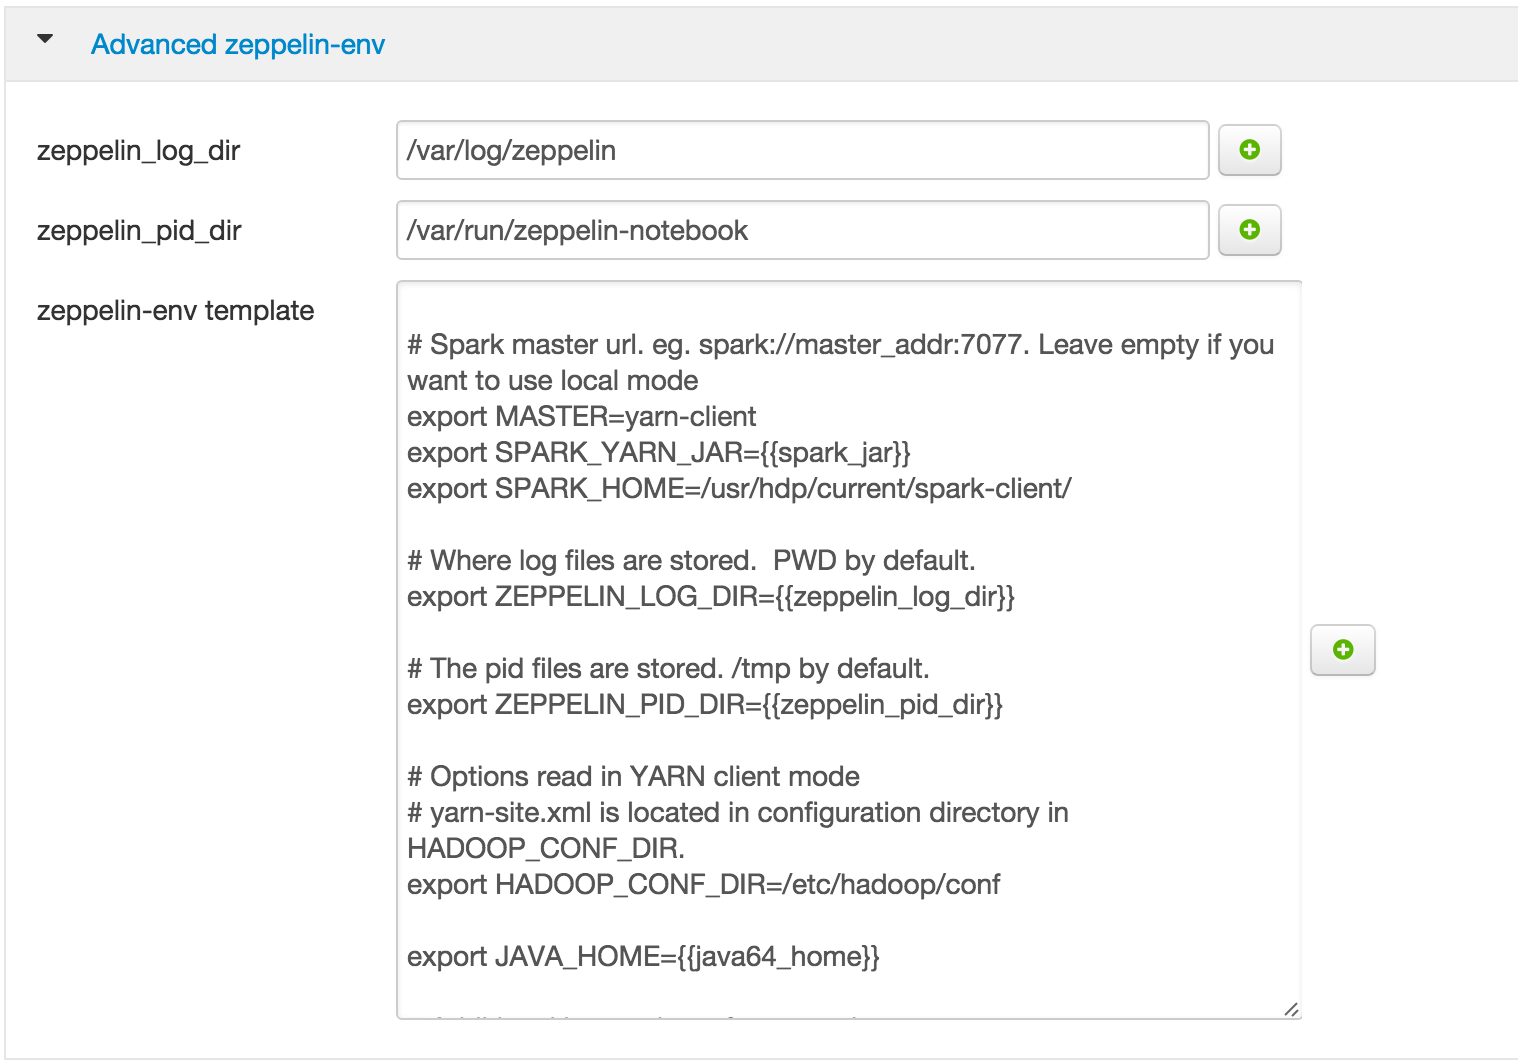
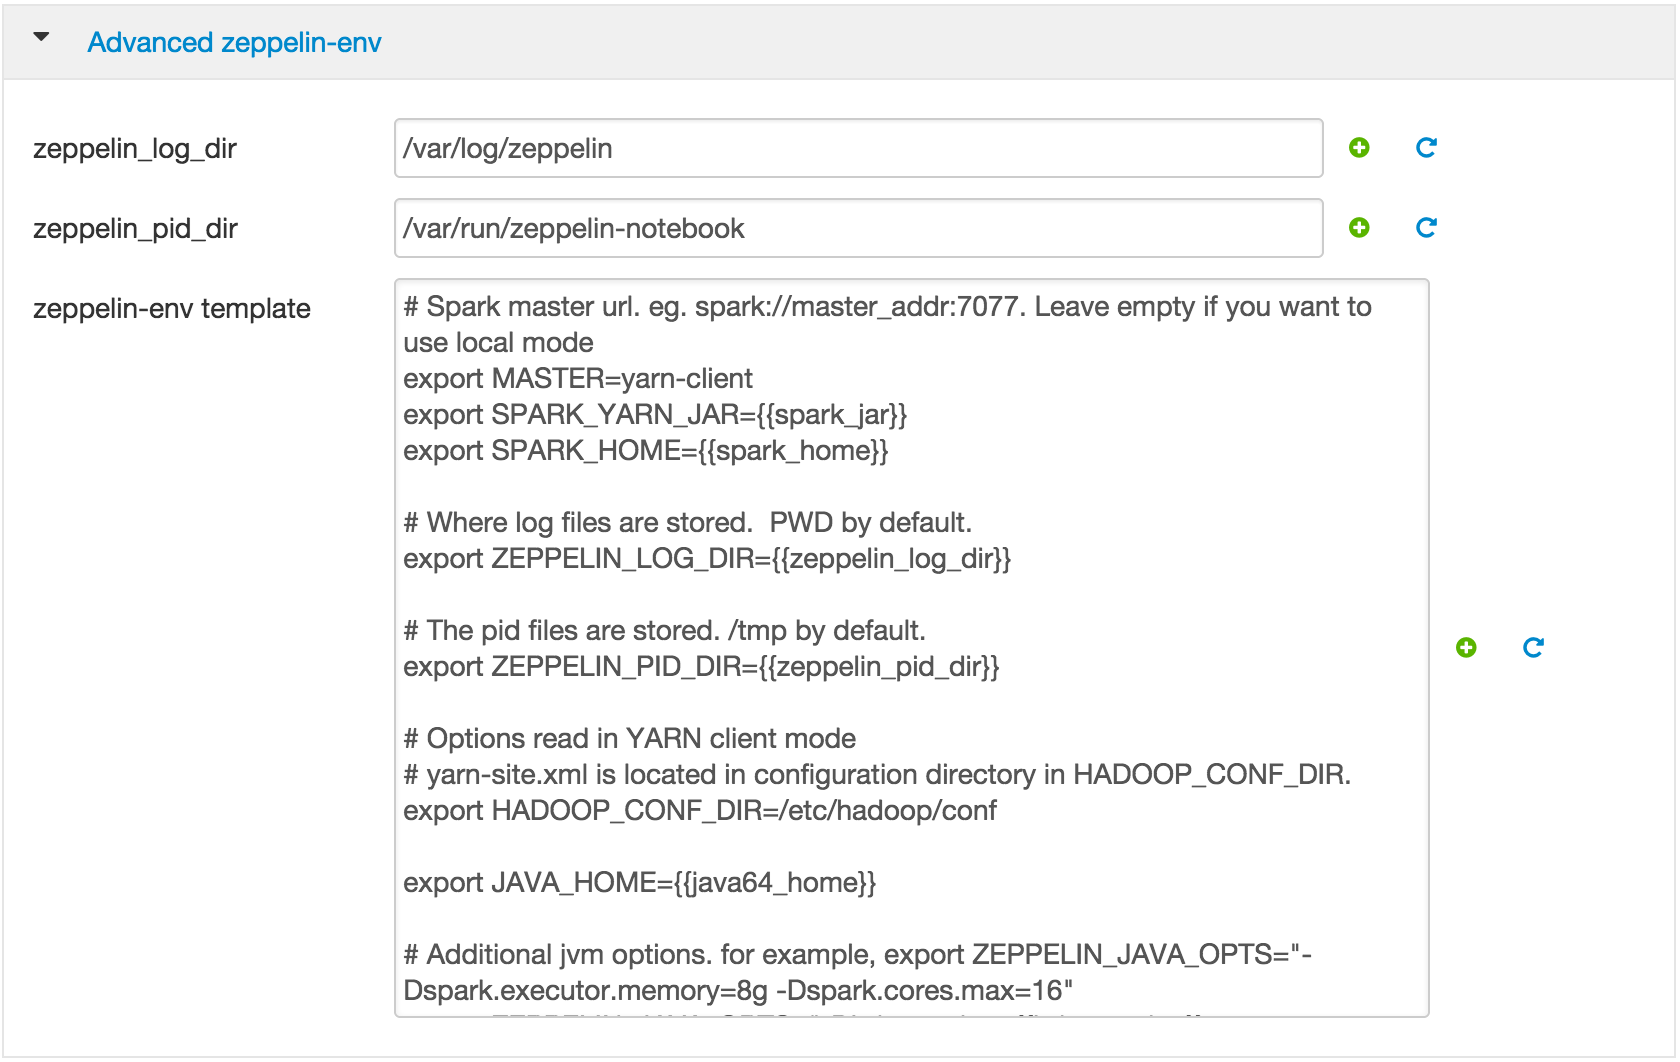
exposed public hostname and spark home configs and added iotdemo notebook

diff --git a/package/scripts/params.py b/package/scripts/params.py
@@ -29,6 +29,8 @@ spark_jar = format("{spark_jar_dir}/zeppelin-spark-0.6.0-SNAPSHOT.jar")
 spark_version = str(config['configurations']['zeppelin-ambari-config']['zeppelin.spark.version'])
 setup_view = config['configurations']['zeppelin-ambari-config']['zeppelin.setup.view']
 temp_file = config['configurations']['zeppelin-ambari-config']['zeppelin.temp.file']
+spark_home = config['configurations']['zeppelin-ambari-config']['spark.home']
+zeppelin_host = config['configurations']['zeppelin-ambari-config']['zeppelin.host.publicname']
 
 # params from zeppelin-config
 zeppelin_port = config['configurations']['zeppelin-config']['zeppelin.server.port']
@@ -55,8 +57,12 @@ hive_metastore_host = str(master_configs['hive_metastore_host'][0])
 hive_metastore_port = str(get_port_from_url(config['configurations']['hive-site']['hive.metastore.uris']))
 
 java64_home = config['hostLevelParams']['java_home']
-zeppelin_host = str(master_configs['zeppelin_master_hosts'][0])
 ambari_host = str(master_configs['ambari_server_host'][0])
+zeppelin_internalhost = str(master_configs['zeppelin_master_hosts'][0])
+
+#if user did not specify public hostname of zeppelin node, proceed with internal name instead
+if zeppelin_host.strip() == '': 
+  zeppelin_host = zeppelin_internalhost
 
 if 'spark.yarn.queue' in config['configurations']['spark-defaults']:
   spark_queue = config['configurations']['spark-defaults']['spark.yarn.queue']

diff --git a/package/scripts/master.py b/package/scripts/master.py
@@ -93,7 +93,7 @@ class Master(Script):
 
       #if zeppelin installed on ambari server, copy view jar into ambari views dir
       if params.setup_view:
-        if params.ambari_host == params.zeppelin_host and not os.path.exists('/var/lib/ambari-server/resources/views/zeppelin-view-1.0-SNAPSHOT.jar'):
+        if params.ambari_host == params.zeppelin_internalhost and not os.path.exists('/var/lib/ambari-server/resources/views/zeppelin-view-1.0-SNAPSHOT.jar'):
           Execute('echo "Copying zeppelin view jar to ambari views dir"')      
           Execute('cp /home/'+params.zeppelin_user+'/zeppelin-view/target/*.jar /var/lib/ambari-server/resources/views')
       
@@ -126,7 +126,7 @@ class Master(Script):
 
       #if zeppelin installed on ambari server, copy view jar into ambari views dir
       if params.setup_view:
-        if params.ambari_host == params.zeppelin_host and not os.path.exists('/var/lib/ambari-server/resources/views/zeppelin-view-1.0-SNAPSHOT.jar'):
+        if params.ambari_host == params.zeppelin_internalhost and not os.path.exists('/var/lib/ambari-server/resources/views/zeppelin-view-1.0-SNAPSHOT.jar'):
           Execute('echo "Copying zeppelin view jar to ambari views dir"')      
           Execute('cp /home/'+params.zeppelin_user+'/zeppelin-view/target/*.jar /var/lib/ambari-server/resources/views')
 

diff --git a/README.md b/README.md
@@ -136,25 +136,28 @@ On bottom left -> Actions -> Add service -> check Zeppelin service -> Next -> Ne
     - spark version: Version of Spark installed in location specified in SPARK_HOME. Default with HDP 2.3 is 1.3, but can also be set to 1.4 or 1.2 (if you manually installed Spark 1.2 or 1.4)
     - executor memory: Executor memory to use (e.g. 512m or 1g)
     - temp file: Temporary file where pre-built package will be downloaded to. If your env has limited space under /tmp, change this to different location. In this case you must ensure that the zeppelin user must be able to write to this location.
-    
+    - public name: This is used to setup the Ambari view for Zeppelin. Set this to the public host/IP of zeppelin node (which must must be reachable from your local machine). If installing on sandbox (or local VM), change this to the IP address of VM. If installing on cloud, set this to public name/IP of zeppelin node. Alternatively, if you already have a local hosts file entry for the internal hostname of the zeppelin node (e.g. sandbox.hortonworks.com), you can leave this empty - it will default to internal hostname
+    - spark home: Spark home directory. Defaults to the Spark that comes with HDP (e.g. 1.3.1 with HDP 2.3). To point Zeppelin to different Spark build, change this to location of where you downloaded Spark to (e.g. /home/zeppelin/spark-1.4.1-bin-hadoop2.6) 
+
+    - Sample settings for Spark 1.3.1 (no changes needed)
+![Image](../master/screenshots/install-4.5-spark1.3.png?raw=true)
+
+    - Sample settings for Spark 1.4.1 (assuming you manually installed spark 1.4 as described above):
+      - set `zeppelin.spark.version=1.4`
+      - set `spark.home=/home/zeppelin/spark-1.4.1-bin-hadoop2.6`
+      
+![Image](../master/screenshots/install-4.5-spark1.4.png?raw=true)
+
   - ii) Advanced zeppelin-config: Used to populate [zeppelin-site.xml](https://github.com/apache/incubator-zeppelin/blob/master/conf/zeppelin-site.xml.template)
+    - If needed you can modify the zeppelin ports here (default to 9995,9996)
+![Image](../master/screenshots/install-5.png?raw=true)
+  
   - iii) Advanced zeppelin-env: Used to populate [zeppelin-env.sh](https://github.com/apache/incubator-zeppelin/blob/master/conf/zeppelin-env.sh.template). See [Zeppelin docs](https://zeppelin.incubator.apache.org/docs/install/install.html) for more info
     - Under `export ZEPPELIN_JAVA_OPTS` notice that the Spark jobs will by default be sent to the default spark queue `-Dspark.yarn.queue={{spark_queue}}`. 
     - To have Zeppelin jobs submitted to a different queue instead, just change to `-Dspark.yarn.queue=my_zeppelin_queuename` (based on your queue name)
-    
-- (Optional) If you installed Spark 1.4, on the Customize services page:
-  - Under 'Advanced zeppelin-config'
-    - set `zeppelin.spark.version=1.4`
-![Image](../master/screenshots/spark-1.4-config.png?raw=true)    
-  - Under 'Advanced zeppelin-env'
-    - set `export SPARK_HOME=/home/zeppelin/spark-1.4.1-bin-hadoop2.6/` 
-![Image](../master/screenshots/spark-1.4-config2.png?raw=true)    
+![Image](../master/screenshots/install-6.png?raw=true)      
 
-- Otherwise, to use Spark 1.3, you should not need to change any default configs. 
-  - ...but here are sample of configurations that you could modify if needed (e.g. executor memory, port etc)
-![Image](../master/screenshots/install-4.5.png?raw=true)
-![Image](../master/screenshots/install-5.png?raw=true)
-![Image](../master/screenshots/install-6.png?raw=true)
+
 - Click Next to accept defaults...
 ![Image](../master/screenshots/install-7.png?raw=true)
 - Click Deploy to start the installation
